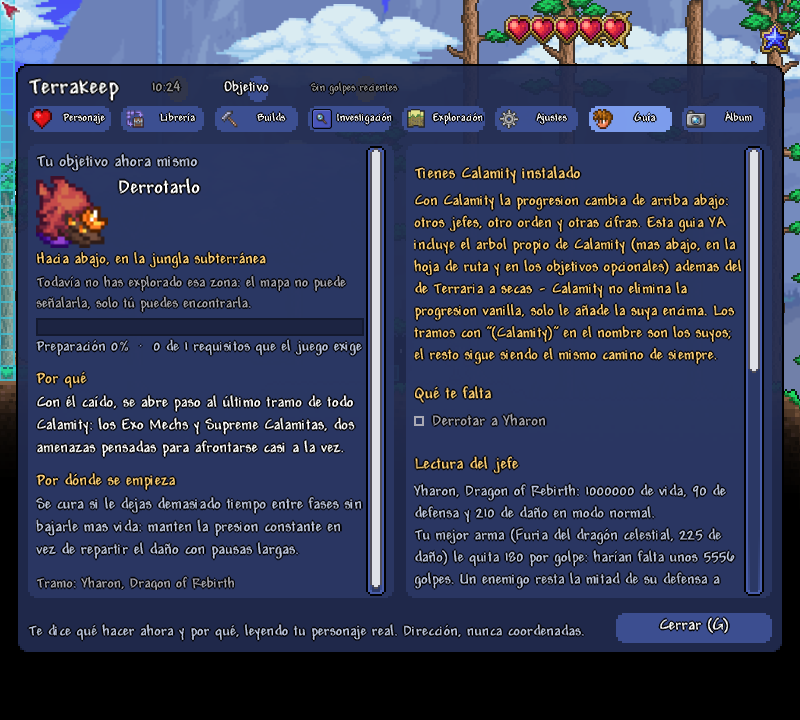
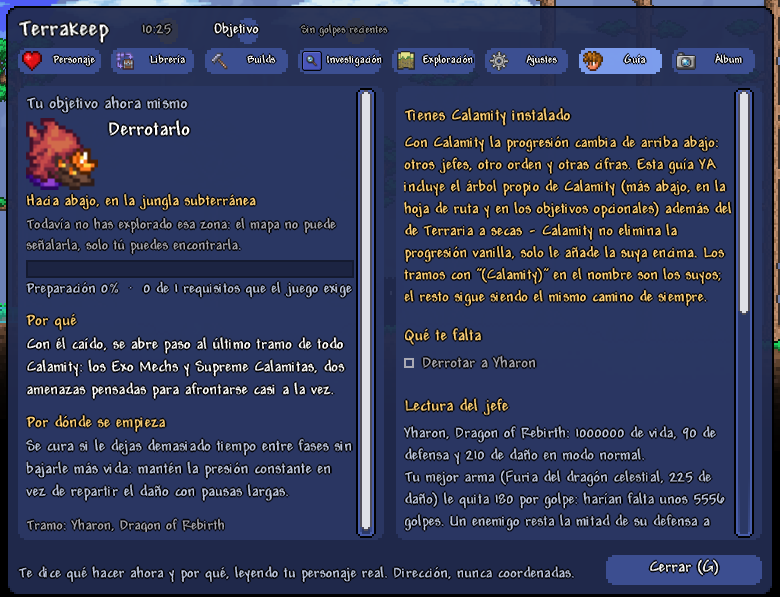
Recaptura la Guía y el Álbum del README con la v0.6.1
- 01-guia-calamity: Guía con Calamity (tarjeta de Yharon) ya con tildes
  ("progresión", "guía", "árbol", "además", "mantén la presión"),
  encuadrada al panel (780x597, sin la franja negra de abajo).
- 02-album: álbum AISLADO de 12 hitos reales (sandbox de pruebas
  tModLoader-TerrakeepAlbumReadme, entradas y PNG generados por la autoprueba
  de la Guía en su perfil de pruebas), escritos en album.json en orden
  revuelto: la pestaña los enseña del 29/09 al 14/09, más reciente primero.
- README: texto alternativo de la 02 y Novedades 0.6.1 con los nombres
  oficiales Esqueletrón / Esqueletrón mayor / Gólem.

Claude-Session: https://claude.ai/code/session_01K7SsmyJLJN7mL9bZmtPKMP

diff --git a/README.md b/README.md
@@ -19,7 +19,7 @@ Terrakeep junto al bestiario y los emotes, con el inventario abierto.
 
 <p align="center">
   <img src="docs/screenshots/01-guia-calamity.png" width="49%" alt="Pestaña Guía con Calamity instalado: cabecera con reloj, objetivo y chip de DPS, tarjeta con el sprite real de Yharon, lo que te falta y la lectura del jefe" />
-  <img src="docs/screenshots/02-album.png" width="49%" alt="Pestaña Álbum con las capturas automáticas de cada hito cerrado, bajo la barra de pestañas con icono de sprite" />
+  <img src="docs/screenshots/02-album.png" width="49%" alt="Pestaña Álbum con doce hitos reales ordenados del más reciente al más antiguo, bajo la barra de pestañas con icono de sprite" />
 </p>
 <p align="center">
   <img src="docs/screenshots/03-builds.png" width="49%" alt="Pestaña Builds con dos filas de filtros, el anillo de progreso 0/13 junto al alternador Vanilla, las tres columnas de armadura, armas y accesorios y los códigos de build" />
@@ -109,7 +109,9 @@ tecnología externa al juego.
   los 25 tramos de Calamity salían sin tildes ("progresion", "arbol", "Lluvia Acida", "Modo
   Dificil"...). Corregidas 88 líneas del español, "¡Práctica superada!" en el informe del
   entrenador de jefe y la concordancia de "La Feromona Exótica"; en inglés, "Tramos with" pasa a
-  "Stages with". Una prueba automática vigila que no vuelvan a perderse.
+  "Stages with". Los jefes usan ya su nombre oficial en español, el mismo que muestra el juego:
+  **Esqueletrón**, **Esqueletrón mayor** (antes "Esqueletron Prime") y **Gólem**. Una prueba
+  automática vigila que no vuelvan a perderse.
 - **El Álbum se ordena de verdad por fecha**, del hito más reciente al más antiguo. Antes solo se
   invertía el orden en que estaban guardados, así que un álbum copiado o fusionado salía mezclado,
   y una entrada con la fecha ilegible saltaba arriba del todo; ahora se va al final.
